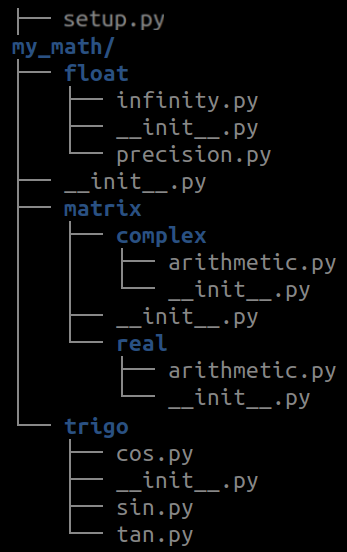
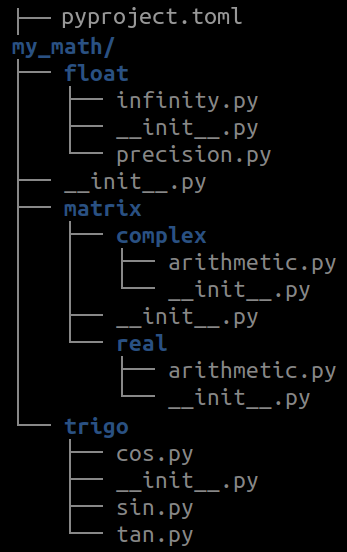
Drop setup.py

Changed region(s): [[0.1729, 0.0, 0.5187, 0.0616], [0.5476, 0.0, 0.6916, 0.0616]]

diff --git a/slides.md b/slides.md
@@ -1413,7 +1413,7 @@ error: Argument 1 to "talk" has incompatible type "List[int]"; expected "int"
 Test files are often placed in a `tests/` directory, file names are prefixed with `test_*.py` and test function names are also prefixed with `test_`
 
 ```bash
-setup.py
+pyproject.toml
 mypkg/
     __init__.py
     app.py
@@ -1630,73 +1630,54 @@ pip install matplotlib
 ## Package distribution
 `setuptools` simplifies the package distribution. [🐍 Learn more](https://setuptools.readthedocs.io/en/latest/setuptools.html)
 
-You need a  `setup.py` file that tells:
+You need a  `pyproject.toml` file (or `setup.cfg`) that tells:
 - The list of modules and data files embedded in the package (*replaces the `MANIFEST` file*)
 - Package version number
 - The list of dependencies on other packages from PyPI, git repos, ...
 - The entry points (executables, commands, ...)
+- How to build the package (using `hatching` or `setuptools`, ...)
 
 You need `pyproject.toml` that tells how to build the package
 
-*Note: `setuptools` replaces the legacy `distutils`*
-
+Notes:
+- `setuptools` replaces the legacy `distutils` deprecated since 3.10
+- the `setup.py` dynamic file is now discouraged in place of static files (`toml` or `cfg`) 
 
 
 ![bg right:24% 85%](img/package-with-init-setup.png)
 
 ---
-Most basic setup file to distribute a single module:
 
-```python
-# File setup.py within package "my_math"
+```conf
+# pyproject.toml example file
 
-from setuptools import setup
-
-setup(name='foo',
-      version='1.0',
-      py_modules=['foo'], # distribute a single module foo.py under name foo
-      )
-```
-
-The most basic `pyproject.toml` just tells pip to build with `setuptools` and `wheel`:
-```python
 [build-system]
-requires = [
-    "setuptools>=42",
-    "wheel"]
+requires = ["setuptools"]
 build-backend = "setuptools.build_meta"
+
+[project]
+name = "my_package"
+description = "My package description"
+readme = "README.rst"
+requires-python = ">=3.7"
+license = {text = "BSD 3-Clause License"}
+classifiers = [
+    "Framework :: Django",
+    "Programming Language :: Python :: 3",
+]
+dependencies = [
+    "requests",
+]
+
+[project.scripts]
+my-script = "my_package.module:function"
 ```
 
 ---
-
-Now let's see a more complete setup file distributing a package:
-
-```python
-from setuptools import setup, find_packages
-
-setup(name='my_math',
-      version='2.0',
-      description='Custom math tools and functions',
-      license='MIT',
-      author='Bob Dupont',
-      author_email='bob@example.org',
-      url='https://github.com/bobdupont42/my_math',
-      packages=find_packages(),                 # Embedded (sub-)packages
-      install_requires=['numpy', 'matplotlib']  # Dependencies to install
-     )
-```
-
-We rely on `find_packages()` to search for all valid (sub)-packages:
-`['my_math', 'my_math.trigo', 'my_math.float', 'my_math.matrix', 'my_math.matrix.complex', 'my_math.matrix.real']`
-
-There is 1 sub-package per `__init__.py` file.
-
----
-The setup file then offers distribution tools:
+The TOML file then offers distribution tools:
 - Install the package in the current environement:
 ```bash
 pip install .
-python setup.py install   # equivalent but deprecated because pip is cool 😎
 ```
 
 - Build distribution:
@@ -1738,6 +1719,18 @@ As of 2021, uploading to PyPI with `twine` is the preferred option:
 3. `twine upload dist/* --repository testpypi`
    - Drop the `--repository` argument if you want to upload to the regular pypi
    - `--repository` can also target your company's own pypi server [Learn more](https://packaging.python.org/guides/hosting-your-own-index/)
+
+---
+
+### Optional: use `poetry` to handle dependencies
+`poetry` is a package manager for Python such as `pip` or `conda`, with the following benefits:
+- Populates dependencies automatically according to your source code
+- Keep track of the version of dependencies in `poetry.lock`
+- Generates a `pyproject.toml` for you
+- Interacts with a prompt
+- Embeds a venv manager with dev and prod
+
+[🐍 Poetry doc](https://python-poetry.org/docs/)
 
 ---
 ### Python package deployment with Continuous Integration (Github actions)
